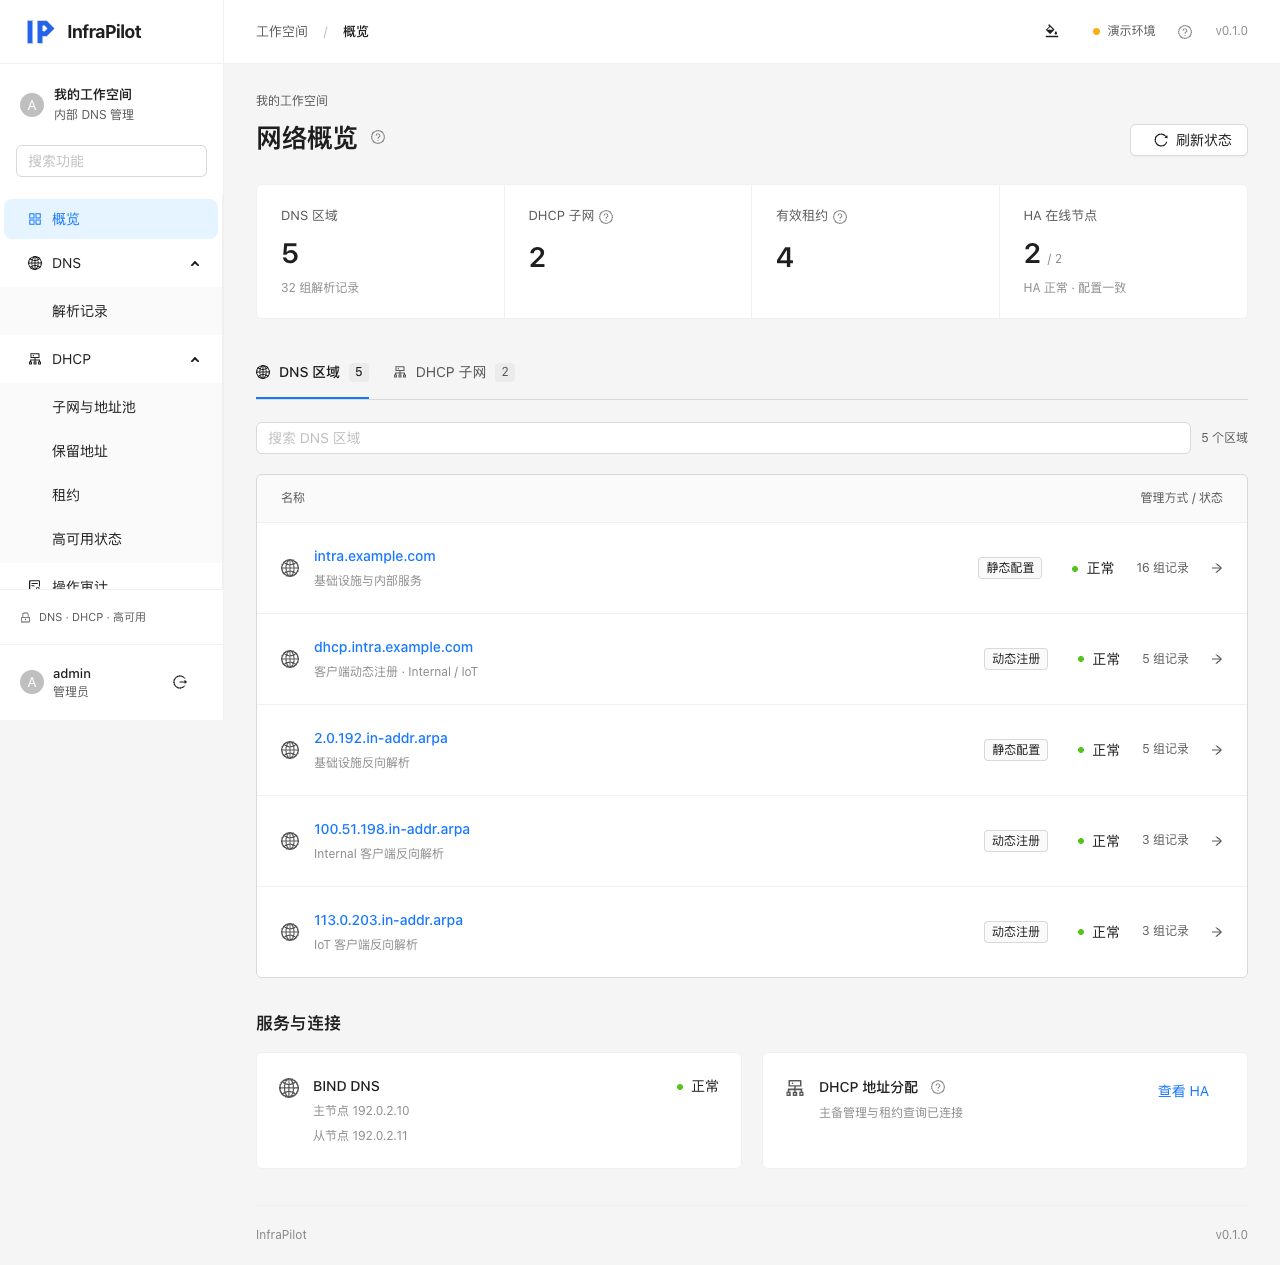
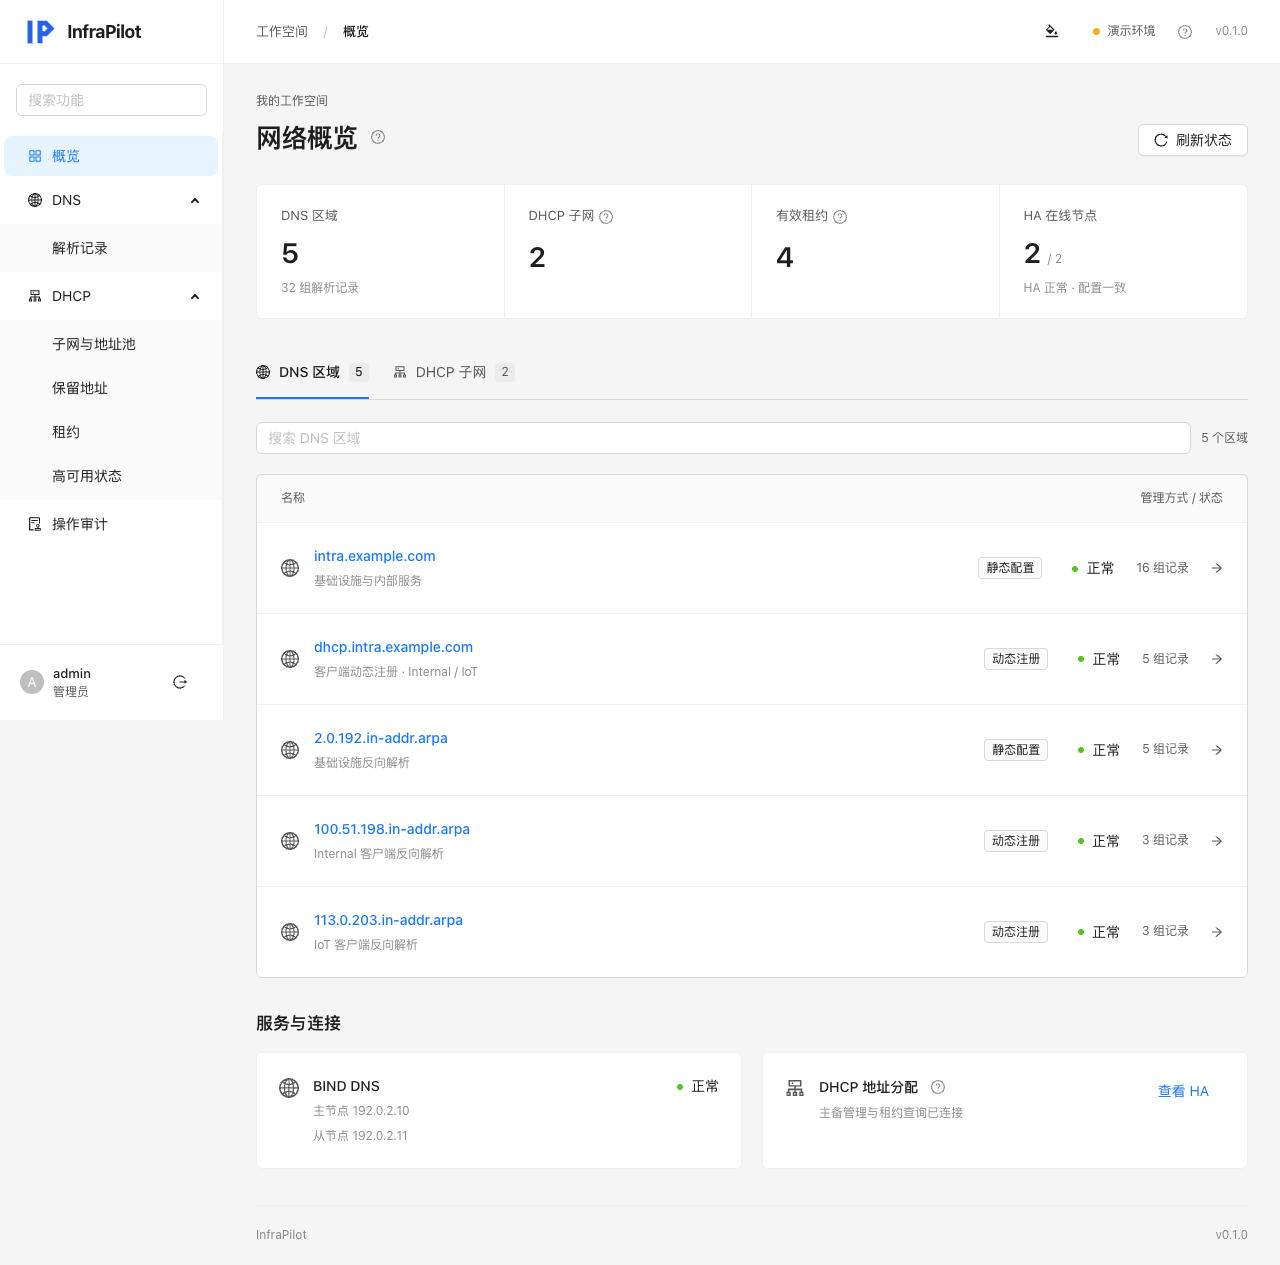
Remove redundant sidebar information blocks

Changed region(s): [[0.0, 0.0617, 0.1875, 0.4316], [0.0312, 0.4625, 0.0938, 0.4933]]

diff --git a/frontend/src/style.css b/frontend/src/style.css
@@ -150,23 +150,6 @@ a:focus-visible {
   letter-spacing: -0.5px;
   line-height: 1;
 }
-.workspace-chip {
-  display: flex;
-  align-items: center;
-  gap: 10px;
-  margin: 24px 20px 28px;
-}
-.workspace-chip strong {
-  display: block;
-  font-size: 13px;
-  font-weight: 600;
-}
-.workspace-chip small {
-  display: block;
-  font-size: 12px;
-  color: var(--text-secondary);
-  margin-top: 2px;
-}
 .nav-label {
   color: var(--text-secondary);
   font-size: 12px;
@@ -174,15 +157,6 @@ a:focus-visible {
 }
 .sidebar-layout .ant-menu {
   background: transparent;
-}
-.sidebar-protocol {
-  display: flex;
-  align-items: center;
-  gap: 8px;
-  font-size: 12px;
-  color: var(--text-secondary);
-  padding: 18px 20px;
-  border-top: 1px solid var(--border);
 }
 .sidebar-user {
   display: flex;
@@ -1257,20 +1231,12 @@ a:focus-visible {
   overscroll-behavior: contain;
 }
 .sidebar-top,
-.workspace-chip,
 .nav-search,
-.sidebar-protocol,
 .sidebar-user {
   flex-shrink: 0;
 }
-.workspace-chip {
-  margin: 20px;
-}
 .nav-search {
-  padding: 0 16px 18px;
-}
-.sidebar-protocol {
-  font-size: 11px;
+  padding: 20px 16px 16px;
 }
 .resource-eyebrow {
   font-size: 12px;

diff --git a/frontend/src/components/WorkspaceNavigation.vue b/frontend/src/components/WorkspaceNavigation.vue
@@ -6,7 +6,6 @@ import {
   CloseOutlined,
   ClusterOutlined,
   GlobalOutlined,
-  LockOutlined,
   LogoutOutlined,
 } from "@ant-design/icons-vue";
 import { routes } from "../navigation";
@@ -47,12 +46,6 @@ const menu = computed(() =>
       >
         <CloseOutlined />
       </a-button>
-    </div>
-    <div class="workspace-chip">
-      <a-avatar size="small">{{
-        user.username.slice(0, 1).toUpperCase()
-      }}</a-avatar>
-      <div><strong>我的工作空间</strong><small>内部 DNS 管理</small></div>
     </div>
     <div class="nav-search">
       <a-input
@@ -100,9 +93,6 @@ const menu = computed(() =>
         <template #icon><AuditOutlined /></template>操作审计
       </a-menu-item>
     </a-menu>
-    <div class="sidebar-protocol">
-      <LockOutlined /><span>DNS · DHCP · 高可用</span>
-    </div>
     <div class="sidebar-user">
       <a-avatar size="small">{{
         user.username.slice(0, 1).toUpperCase()
